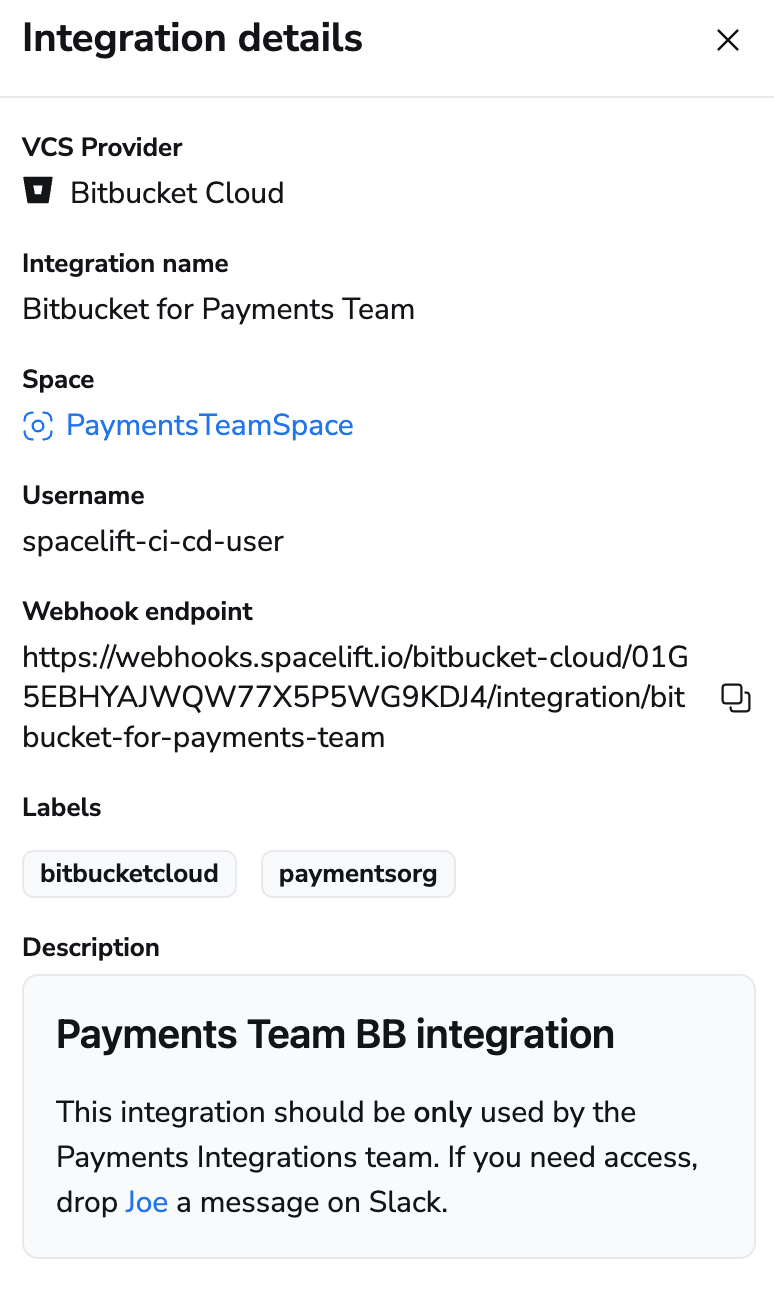
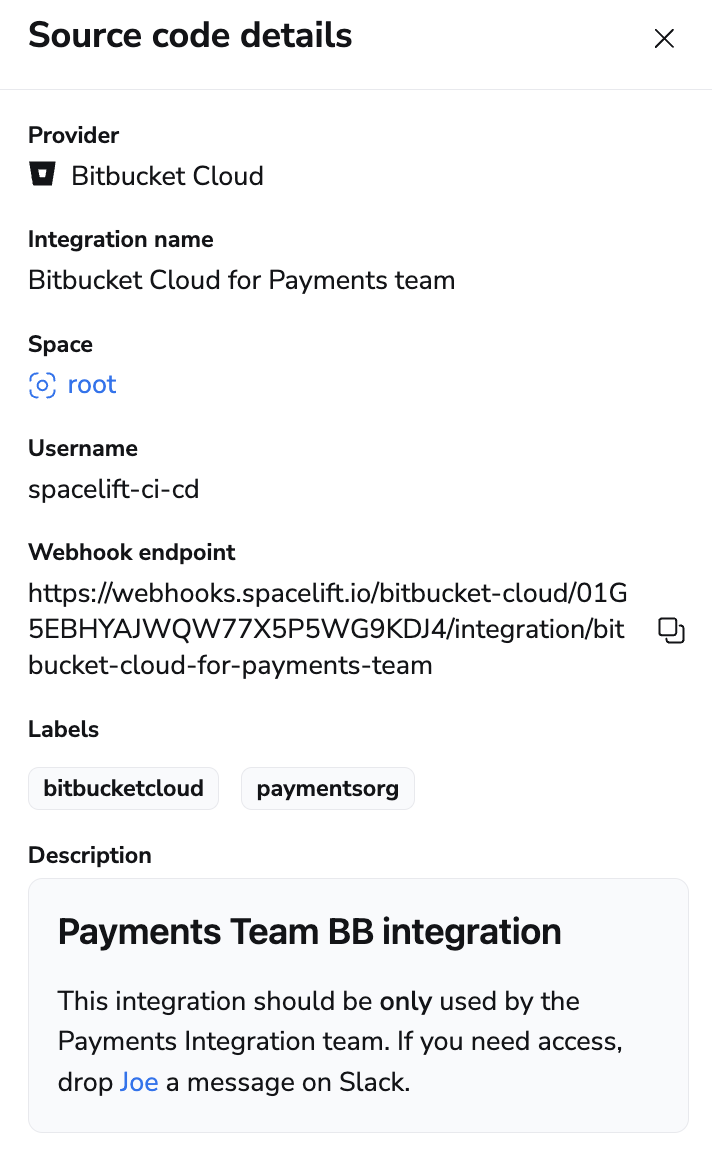
MultiVCS: update a few screenshots and text

diff --git a/docs/integrations/source-control/azure-devops.md b/docs/integrations/source-control/azure-devops.md
@@ -4,7 +4,7 @@ Spacelift supports using Azure DevOps as the source of code for your [stacks](..
 
 ## Setting up the integration
 
-In order to set up the integration from the Spacelift side, please navigate to the VCS management page, click on the **Set up integration** button in the top right corner and choose Azure DevOps.
+In order to set up the integration from the Spacelift side, please navigate to the **Source code** page, click on the **Set up integration** button in the top right corner and choose Azure DevOps.
 
 This form will appear:
 
@@ -72,7 +72,7 @@ If all the data is correct, click **Set up** in the bottom right corner.
 
 ### Configuring Webhooks
 
-In order for Spacelift to be notified of any changes made in your repositories, you need to setup webhooks in Azure DevOps. You can find your **webhook endpoint** and **webhook secret** after clicking the 3 dots next to the integration name on the VCS providers page, and then clicking **See details**.
+In order for Spacelift to be notified of any changes made in your repositories, you need to setup webhooks in Azure DevOps. You can find your **webhook endpoint** and **webhook secret** after clicking the 3 dots next to the integration name on the **Source code** page, and then clicking **See details**.
 
 !!! note
     Space-level integrations will be listed to users with **read** access to the integration Space. Integration details however contain sensitive information (such as webhook secret) so they are only visible to those with **admin** access. On the other hand, default integrations are visible to all users of the account, but only **root** Space admins can see the details of them.
@@ -119,7 +119,7 @@ When creating a Stack, you will now be able to choose the Azure DevOps provider 
 
 ## Deleting the Integration
 
-If you no longer need the integration, you can delete it by clicking the 3 dots next to the integration name on the VCS providers page, and then clicking **Delete**. You need **admin** access to the integration Space to be able to delete it.
+If you no longer need the integration, you can delete it by clicking the 3 dots next to the integration name on the **Source code page**, and then clicking **Delete**. You need **admin** access to the integration Space to be able to delete it.
 
 <p align="center">
   <img src="../../assets/screenshots/azure_devops_deletion_button.png"/>

diff --git a/docs/integrations/source-control/bitbucket-cloud.md b/docs/integrations/source-control/bitbucket-cloud.md
@@ -4,7 +4,7 @@
 
 ## Setting up the integration
 
-In order to set up the integration from the Spacelift side, please navigate to the VCS management page, click on the **Set up integration** button in the top right corner and choose Bitbucket Cloud.
+In order to set up the integration from the Spacelift side, please navigate to the **Source code** page, click on the **Set up integration** button in the top right corner and choose Bitbucket Cloud.
 
 This form will appear:
 
@@ -43,7 +43,7 @@ After doing all this you should have all fields filled in.
   <img src="../../assets/screenshots/Screenshot from 2021-06-11 10-50-38.png" width="450" alt="Filled in Bitbucket Cloud integration form" />
 </p>
 
-Once you've finished saving the form, you can find your **webhook endpoint** after clicking the 3 dots next to the integration name on the VCS providers page, and then clicking **See details**.
+Once you've finished saving the form, you can find your **webhook endpoint** after clicking the 3 dots next to the integration name on the **Source code** page, and then clicking **See details**.
 
 <p align="center">
   <img src="../../assets/screenshots/Screenshot from 2021-06-11 14-52-40.png" width="450" alt="Integration details" />
@@ -73,14 +73,14 @@ When creating a Stack, you will now be able to choose the Bitbucket Cloud provid
 
 ## Deleting the Integration
 
-If you no longer need the integration, you can delete it by clicking the 3 dots next to the integration name on the VCS providers page, and then clicking **Delete**. You need **admin** access to the integration Space to be able to delete it.
+If you no longer need the integration, you can delete it by clicking the 3 dots next to the integration name on the **Source code** page, and then clicking **Delete**. You need **admin** access to the integration Space to be able to delete it.
 
 <p align="center">
   <img src="../../assets/screenshots/azure_devops_deletion_button.png"/>
 </p>
 
 !!! warning
-    Please note that you can delete integrations while stacks are still using them. See the next section for more details.
+    Please note that you can delete source code integrations while stacks are still using them. See the next section for more details.
 
 ### Consequences
 

diff --git a/docs/integrations/source-control/github.md b/docs/integrations/source-control/github.md
@@ -43,7 +43,7 @@ In some cases, using the Spacelift application from the Marketplace is not an op
 
 #### Creating the custom application
 
-In order to do so, navigate to the **VCS management** page, click on the **Set up integration** button and choose GitHub.
+In order to do so, navigate to the **Source code** page, click on the **Set up integration** button and choose GitHub.
 You will be presented with two options:
 
 ![](<../../assets/screenshots/CleanShot 2022-09-16 at 09.38.30.png>)
@@ -156,7 +156,7 @@ Now that you've created a GitHub App and configured it in Spacelift, the last st
 
 ### Via Spacelift UI
 
-On the VCS management page:
+On the Source code page:
 
 <p align="center">
   <img src="../../assets/screenshots/github_install_app.png" width="400"/>
@@ -396,7 +396,7 @@ By default Spacelift uses the GitHub API to download a tarball containing the so
 
     ![](<../../assets/screenshots/CleanShot 2022-09-16 at 10.24.08.png>)
 
-    You can now remove the integration via the *Delete* button on the *VCS management* page:
+    You can now remove the integration via the *Delete* button on the *Source code* page:
 
     <p align="center"><img src="../../assets/screenshots/Gitlab_delete.png"/></p>
 
